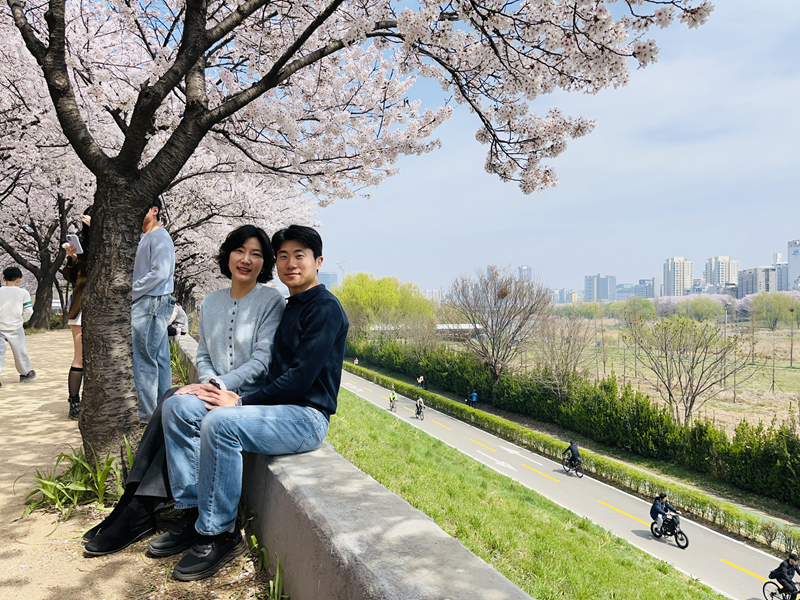
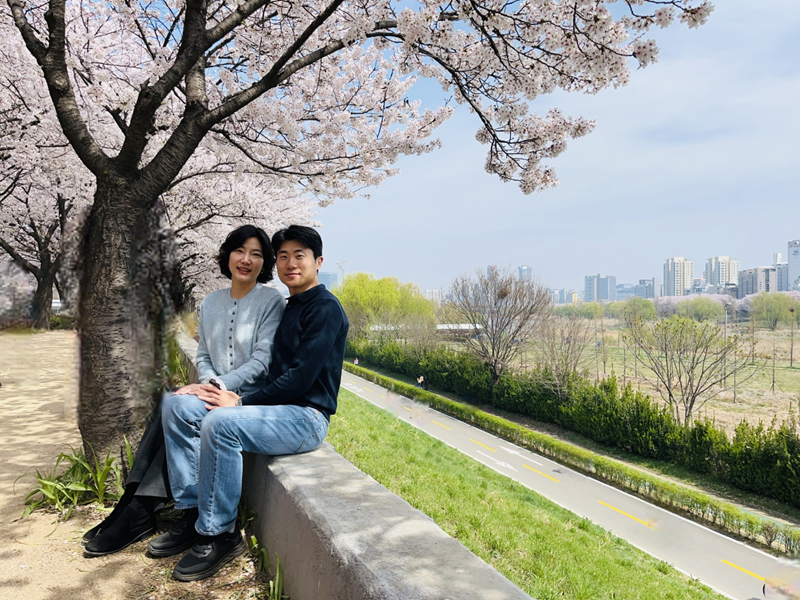
update

diff --git a/src/component/location/index.tsx b/src/component/location/index.tsx
@@ -52,7 +52,7 @@ export const Location = () => {
             - 급행(빨강): 8601, 2500, 8600
             <br />
             - 공항(검정): 6015, 6021, 6702
-            <style="color : black">공항버스</style> 6015, 6021, 6702
+            <mark class="background-color:black">공항버스</mark> 6015, 6021, 6702
           </div>
         </div>
 
